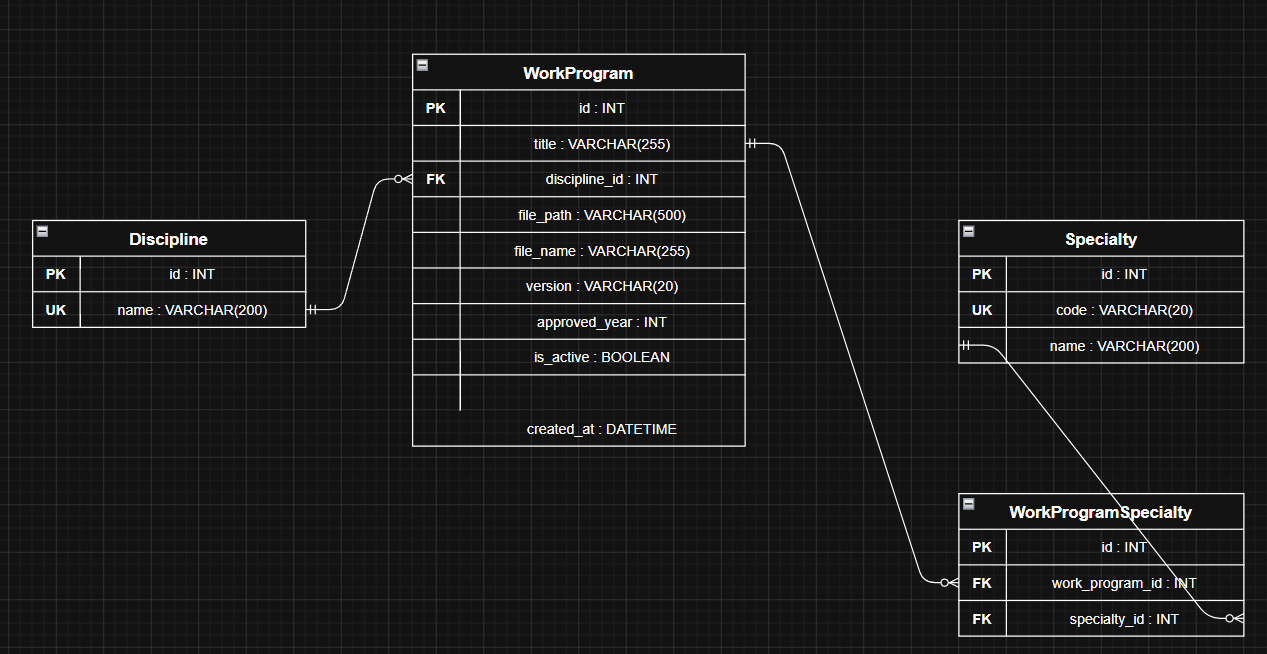
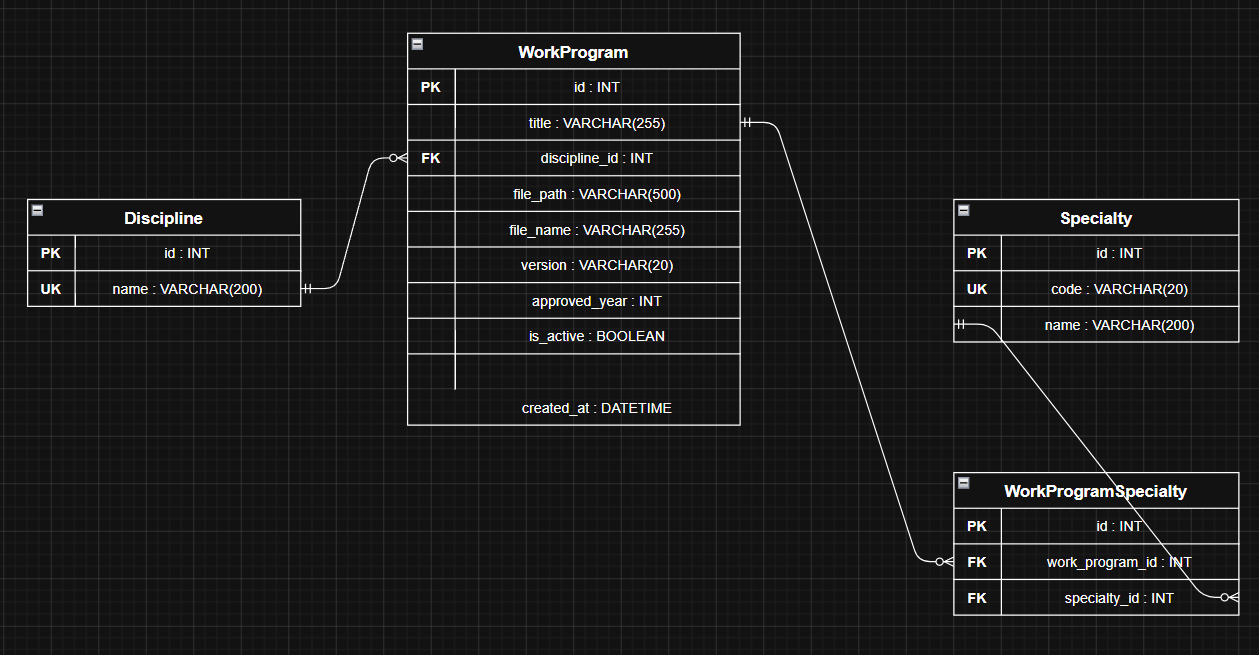
Исправлены замечания

diff --git a/S13/doc.md b/S13/doc.md
@@ -1,4 +1,4 @@
-# S13 — Work Program Service (Сервис рабочих программ)
+# Вариант 13 — Work Program Service (Сервис рабочих программ)
 
 Сервис управляет рабочими программами дисциплин: хранит метаданные, путь к файлу, версию и год утверждения. Программа привязывается к дисциплине и может использоваться в нескольких специальностях. **Не хранит** сами дисциплины и специальности — они управляются Discipline Service и Specialty Service.
 
@@ -34,8 +34,8 @@
 | file_path     | string или null   |
 | description   | string или null   |
 | is_active     | boolean           |
-| created_at    | string (ISO 8601) |
-| updated_at    | string (ISO 8601) |
+| created_at    | string |
+| updated_at    | string |
 
 ---
 
@@ -66,8 +66,8 @@
 | file_path     | string или null   |
 | description   | string или null   |
 | is_active     | boolean           |
-| created_at    | string (ISO 8601) |
-| updated_at    | string (ISO 8601) |
+| created_at    | string |
+| updated_at    | string |
 
 ---
 
@@ -91,8 +91,8 @@
 | description   | Описание                     | string или null   |
 | is_active     | Активна ли программа         | boolean           |
 | specialties   | Список ID привязанных специальностей | list    |
-| created_at    | Дата создания                | string (ISO 8601) |
-| updated_at    | Дата последнего изменения    | string (ISO 8601) |
+| created_at    | Дата создания                | string |
+| updated_at    | Дата последнего изменения    | string |
 
 ---
 
@@ -119,8 +119,8 @@
 | approved_year | integer           |
 | file_name     | string или null   |
 | is_active     | boolean           |
-| created_at    | string (ISO 8601) |
-| updated_at    | string (ISO 8601) |
+| created_at    | string |
+| updated_at    | string |
 
 ---
 
@@ -167,18 +167,4 @@
 
 ## ER-диаграмма
 
-> Файл диаграммы: `erd.drawio` (открывается в [draw.io](https://app.diagrams.net/))
-
-![ERD](erd.drawio)
-
-```
-Discipline  ──< WorkProgram                           (одна дисциплина — много программ)
-WorkProgram >──< Specialty  через WorkProgramSpecialty (многие ко многим)
-```
-
-| Таблица                | Назначение                                                               |
-|------------------------|--------------------------------------------------------------------------|
-| Discipline             | Заглушка: дисциплина (управляется Discipline Service)                    |
-| Specialty              | Заглушка: специальность (управляется Specialty Service)                  |
-| WorkProgram            | Основная сущность: рабочая программа с метаданными и путём к файлу       |
-| WorkProgramSpecialty   | Транзитивная таблица: привязка программ к специальностям (многие ко многим) |
+![ER-диаграмма](erd.png)
